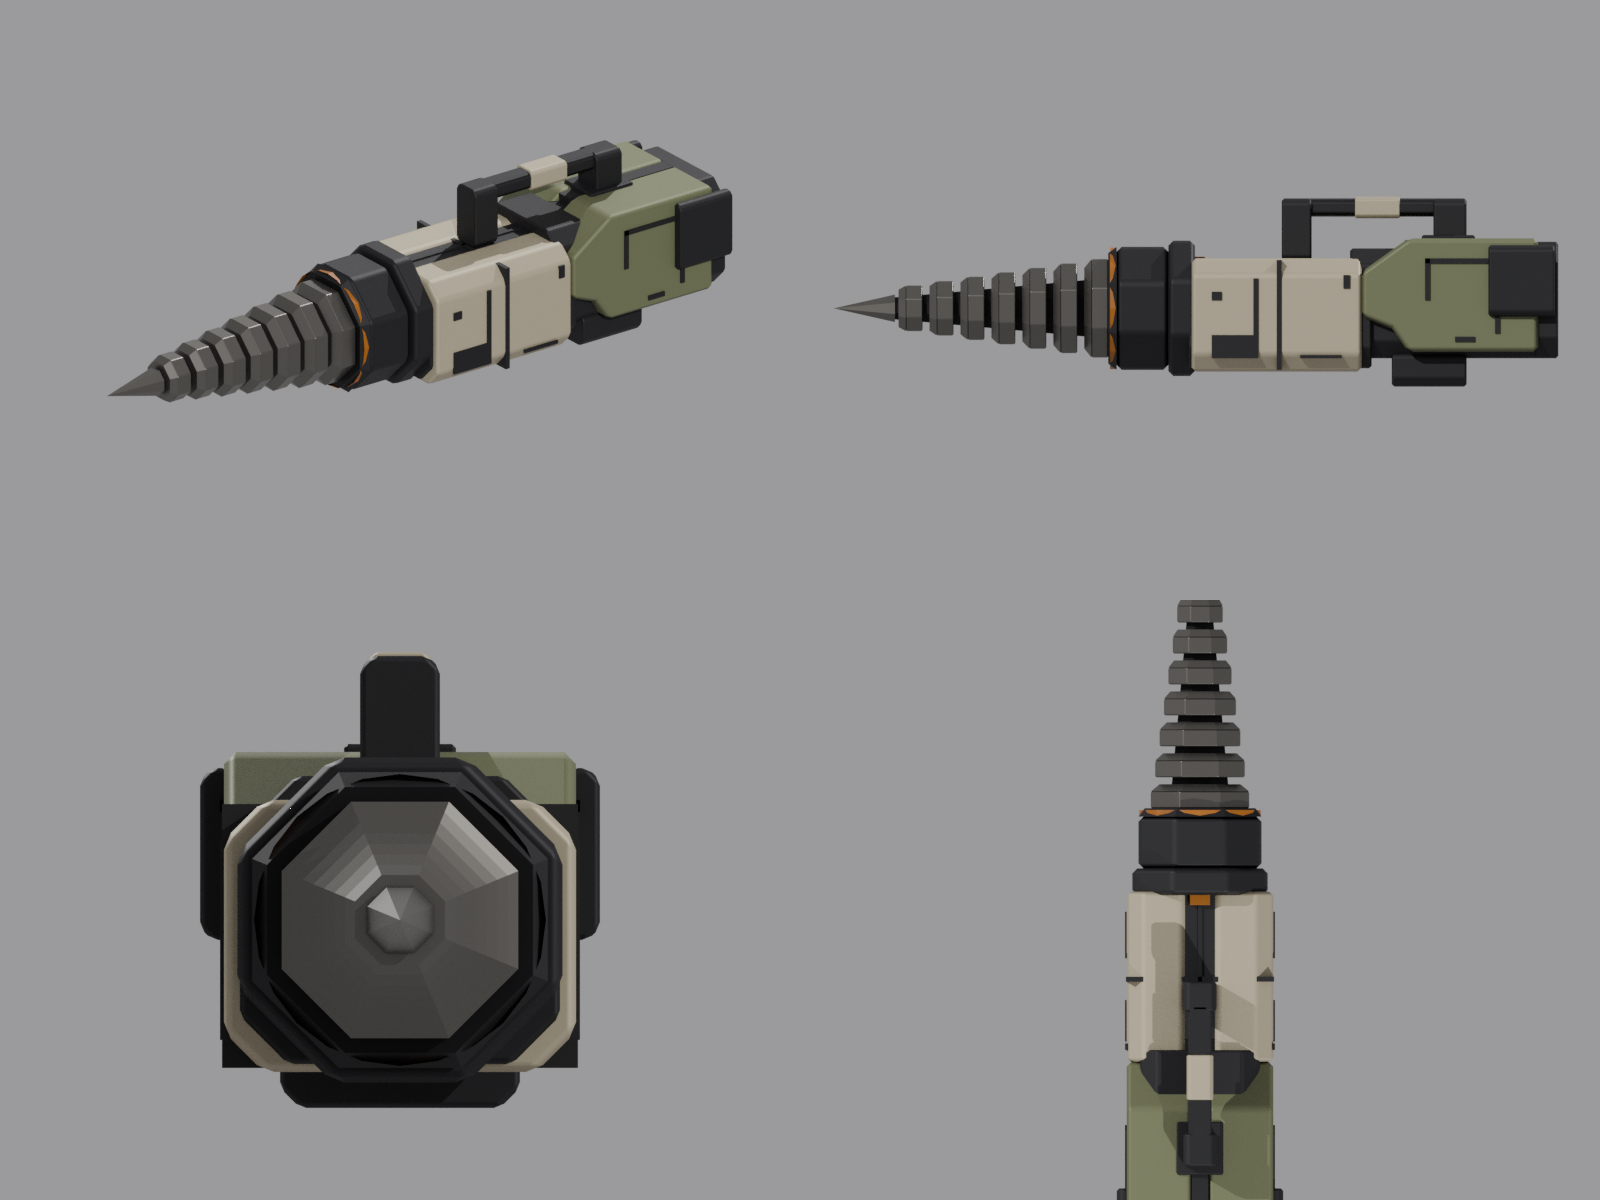
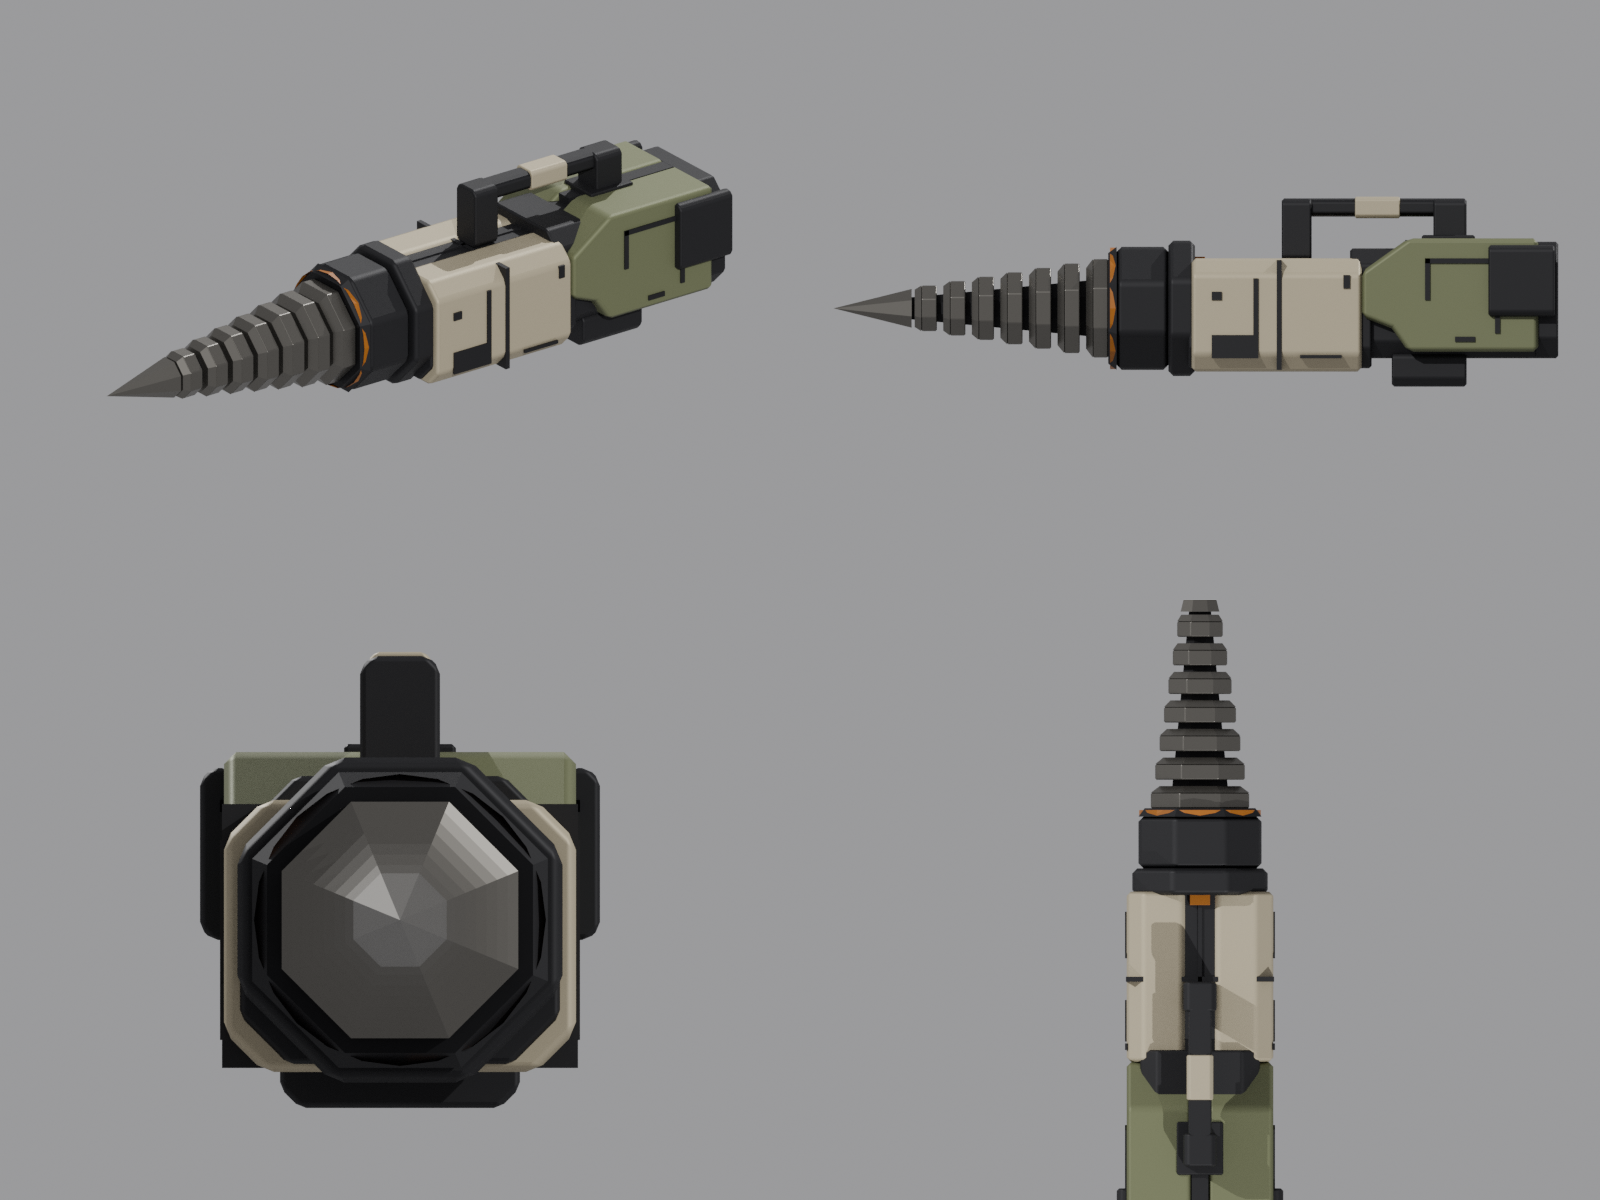
Pile Bunker 2 in the game: scene, weapon data, garage entry, forearm mount, drill spin while charging until hit or miss, pointed tip; test; DESIGN
Claude-Session: https://claude.ai/code/session_01UQXMMRgXR9bJ6vcA1ScowF

diff --git a/tools/blender/pilebunker_2_build.py b/tools/blender/pilebunker_2_build.py
@@ -11,7 +11,7 @@ are estimated from the side view, about 0.00635 m per pixel). All sizes below ar
 Axes: Blender +Y = forward (Godot -Z), +Z = up. Origin: the back face, on the drill axis. Same length as
 the first Pile Bunker from the back to the nose (2.7 m: elbow to the front of the fist), so the same mount
 works. Named pieces the weapon script uses (same names as pile_bunker.glb): Stake (empty, parent of the
-drill; it moves along +Y), Drum (top lamp glow), NoseRing (collar ring glow). Empties: Nose (front of the
+drill; it moves along +Y and spins about Y), Drum (top lamp glow), NoseRing (collar ring glow). Empties: Nose (front of the
 collar), Mount.
 """
 import math, os
@@ -30,7 +30,7 @@ DRILL_LENGTH = 1.65
 DRILL_RADIUS = 0.32
 ## Steps on the drill (steel rings with the dark core between them), then the pointed tip.
 DRILL_STEPS = 7
-DRILL_TIP = 0.35
+DRILL_TIP = 0.45
 ## How far the drill core goes back into the collar (it shows when the drill fires).
 DRILL_BACK = 0.6
 ## Half width of the body.
@@ -234,7 +234,9 @@ def build_drill():
         ring_len = step * 0.78
         parts.append(prism(f"DrillRing{i}", S, y0, y0 + ring_len * 0.7, r, r, bevel=0.008))
         parts.append(prism(f"DrillRingFront{i}", S, y0 + ring_len * 0.7, y0 + ring_len, r, r * 0.82, bevel=0.0))
-    parts.append(prism("DrillTip", S, body - 0.02, DRILL_LENGTH, tip_r + 0.02, 0.0, bevel=0.0))
+    # Pointed tip (user request 2026-10-31): a cone from the last ring's size to a sharp point.
+    last_r = DRILL_RADIUS + (tip_r + 0.05 - DRILL_RADIUS) * (DRILL_STEPS - 1) / DRILL_STEPS
+    parts.append(prism("DrillTip", S, body - 0.02, DRILL_LENGTH, last_r * 0.85, 0.0, bevel=0.0))
     for obj in parts:
         obj.parent = stake
     return [stake] + parts

diff --git a/tools/mech_gen/weapons.py b/tools/mech_gen/weapons.py
@@ -424,6 +424,16 @@ if __name__ == "__main__":
         "rest_transform": bunker_rest, "aim_anchor": v3(bunker_aim),
         "right_pole_rest": v3((0.6, -1.0, 0.3)), "right_pole_aim": v3((0.6, -1.0, 0.4))},
         "res://scenes/weapons/pile_bunker.tscn")
+    # Pile Bunker 2 (user design 2026-10-31, drill stake; hand-made scene scenes/weapons/pile_bunker_2.tscn):
+    # the same hold and values, a bigger model.
+    res("data/weapons/pile_bunker_2.tres", {"display_name": '"Pile Bunker 2"', "weight_t": 3.0, "hp": 300.0,
+        "kind": 5, "fire_rate": 0.16667,
+        "damage": 675.0, "stagger_points": 30.0, "magazine": 3, "reload_time": 5.0,
+        "lunge_distance": 16.0, "lunge_speed": 32.0, "lunge_energy": 20.0,
+        "shake_trauma": 0.45, "shake_kick": 0.6, "recoil_up_deg": 2.0, "recoil_side_deg": 1.0,
+        "rest_transform": bunker_rest, "aim_anchor": v3(bunker_aim),
+        "right_pole_rest": v3((0.6, -1.0, 0.3)), "right_pole_aim": v3((0.6, -1.0, 0.4))},
+        "res://scenes/weapons/pile_bunker_2.tscn")
     for side in ("l", "r"):
         res(f"data/weapons/missile_pod_{side}.tres", {"display_name": f'"Missile Pod {side.upper()}"', "weight_t": 3.0, "hp": 250.0,
             "kind": 3, "slot": 1, "fire_rate": 1.0, "damage": 112.5, "stagger_points": 10.0, "stagger_cap_per_shot": 30.0, "projectile_speed": 90.0, "range_m": 250.0,

diff --git a/tools/data_gen/garage_data.py b/tools/data_gen/garage_data.py
@@ -88,10 +88,10 @@ def main():
     mods = [write(f"data/mods/{f}.tres", "ModData", "mod_data", {"display_name": n, "stat": s, "percent": p})
             for f, n, s, p in MODS]
     weapons = {
-        "weapons_right": ["heavy_rifle", "beam_rifle", "beam_sniper", "pile_bunker", "auto_cannon", "smg", "shotgun",
+        "weapons_right": ["heavy_rifle", "beam_rifle", "beam_sniper", "pile_bunker", "pile_bunker_2", "auto_cannon", "smg", "shotgun",
                           "fist", "hammer", "baton"],
         # Left hand (user rules 2026-10-15): shields, one-hand guns, the Pile Bunker and the Fist.
-        "weapons_left": ["warden_shield", "small_shield", "smg", "shotgun", "auto_cannon", "pile_bunker", "fist"],
+        "weapons_left": ["warden_shield", "small_shield", "smg", "shotgun", "auto_cannon", "pile_bunker", "pile_bunker_2", "fist"],
         "backs_left": ["missile_pod_l", "auto_cannon_shoulder"],
         "backs_right": ["missile_pod_r", "auto_cannon_shoulder"],
     }

diff --git a/DESIGN.md b/DESIGN.md
@@ -890,11 +890,16 @@ User brief: assemble the four AI-made parts in `models/medium/` (head, torso, le
 - Skeleton modifiers (found 2026-10-27): the arm, hip and aim modifiers (SkeletonModifier3D) change the bones only during the skeleton update, and Godot undoes it after; a tool that reads `get_bone_global_pose` outside `skeleton_updated` sees the pose without them. The skin and BoneAttachment3D use the pose with them. The new tools read the poses after `await skeleton.skeleton_updated`.
 - Test: `tools/godot/test_pile_bunker_clip.gd` (new): Pile Bunker face points against a convex hull per armor mesh and bone, right and left hand, at rest, walk, power-up, a full attack on a target and boost: 0 points inside in every phase (before: up to 0.48 m into the forearm). test_pile_bunker_hit, test_stability, test_weapon_hands, test_hit_reactions, test_melee_combo, test_beam_arm_break: 0 failures.
 
-## Pile Bunker 2 model (user design 2026-10-31, Blender model, not in the game yet)
+## Pile Bunker 2 model (user design 2026-10-31, Blender model, in the game since 2026-10-31)
 - User picture `models/guides/pilebunker_2_ref.png` (3/4, front, side, top). Script `tools/blender/pilebunker_2_build.py` writes `models/pilebunker_2/pilebunker_2.blend` and `.glb` (2,734 triangles). Preview: `models/pilebunker_2/pilebunker_2_preview.png`.
 - Shape: black end cap and side pads, olive grip housing with a slanted front, black foot, carry handle on top (black posts, tan sleeve), tan body in two panels with a top seam, black octagonal collar, stepped steel drill (7 rings on a dark core, pointed tip). Colors from the picture: olive, tan, black, steel, dark core.
 - Sizes: back to collar front (Nose) 2.7 m, the same as the first Pile Bunker (elbow to the front of the fist); drill 1.65 m past the collar; body about 0.9 m wide and 1.1 m high with the handle.
-- The same node names as `pile_bunker.glb` (Stake empty with the drill, Nose, Mount, Drum glow lamp, NoseRing glow), so `PileBunkerWeapon` can use it. Not wired yet: needs a scene, weapon data, the PS1 skin and its own forearm mount (user decision).
+- The same node names as `pile_bunker.glb` (Stake empty with the drill, Nose, Mount, Drum glow lamp, NoseRing glow), so `PileBunkerWeapon` can use it.
+- In the game (user request 2026-10-31: "dorsal like the first, drill spins while charging until charge release and hits/misses target, pointed tip"): `scenes/weapons/pile_bunker_2.tscn` (hand made, `PileBunkerWeapon`), `data/weapons/pile_bunker_2.tres` (the first Pile Bunker's values, 3.0 t; also in `tools/mech_gen/weapons.py`), in both arm lists of the garage catalog (hand edit: `tools/data_gen/garage_data.py` has it too, but its output no longer matches the hand-edited part files, so do not run it blindly). The same clips (Shift+1 to 5), charge, lunge and hit as the first; the PS1 skin comes from the mech like the first.
+- Forearm mount: `compute_pile_bunker_mount.gd` with `MODEL=res://models/pilebunker_2/pilebunker_2.glb MIRROR=none` (the model is the same on both sides; no mirror). The model sits 1.13 m out from the forearm bone (it is about 1 m wide).
+- Drill spin: `PileBunkerWeapon` group "Drill spin" (`spin_speed_deg` 1080 in this scene, 0 = no spin for the first; `spin_up_time` 0.4 s, `spin_down_time` 0.25 s). The Stake turns about its own axis from the power-up (button held) through the charge and the punch or clip, and stops when the stake hits or the punch misses (the coded punch: the hold ends; a clip: its strike window ends).
+- Tip: a sharp cone 0.45 m long from the last ring.
+- Test: `BUNKER=res://data/weapons/pile_bunker_2.tres` with `test_pile_bunker_hit.gd` (it also checks the spin at the release and the stop after the hit): 0 failures. Picture: `models/pilebunker_2/pilebunker_2_in_game.png`.
 
 ## Beam Rifle (user design, Blender model, in the game since 2026-10-11)
 
@@ -1162,6 +1167,7 @@ scripts/combat/     mech_health.gd, part_hitbox.gd, part_breaker.gd, mech_death.
 - "Align shoulders and arm swings during holding war hammer and baton with shoulder and arm swings with fists": the holding arm followed the walk clip (its shoulder block rose and tilted). Now `WeaponController._swings_like_fist` (a HAMMER-kind weapon in the right hand): when it does not swing, the arm takes the fist hang target (`_update_fist_arms`, `fist_hang_target`) and its IK runs, so `SkeletalArmRig` gives it the relaxed hang and the stride swing like a fist arm (level block); the weapon rides the hand. During a swing the target is null and the clip has the arm as before. Test: test_melee_combo, test_stability, test_weapon_hands, test_hit_reactions 0 failures; renders `render_rifle.gd` RIFLE_RIGHT=hammer / baton, RIFLE_ACTIONS=move_forward, views far, far_front.
 
 ## Reminders for the user
+- Open (2026-10-31, built): play test Pile Bunker 2 (garage, both arms): the place on the forearm, the drill spin from the power-up to the hit or miss, the pointed tip, all 5 clips.
 - Open (2026-10-31, user: "add testing to reminders"): play test the batch of 2026-10-30: the charging clip and hold-to-charge fists, the right forearm while walking and running with the Pile Bunker, Shift+3 (lower liftoff and landing), part collisions (head, fist hits, arm keep-off), two Pile Bunkers, the knuckle row, the smooth crosshair return, War Hammer and Baton arm swing, and the left-hand mirrored clips (Shift+1, 3, 4, 5).
 - Open (2026-10-25, user): replace the Pile Bunker with a better model (the current one is a placeholder; its fist also misses the grip by up to 0.6 m in the jump guard and while boosting). Needs the new model first (Blender or an upload), then the PS1 skin and the hold. Update 2026-10-26: built and in the game (see "Pile Bunker model"); play test it. The fist miss in the jump guard and while boosting is not measured again (the fist holds no grip; the model sits on the forearm).
 - Open (2026-10-25, built): play test the Auto Cannon grip in both hands (the fist on the handle).
